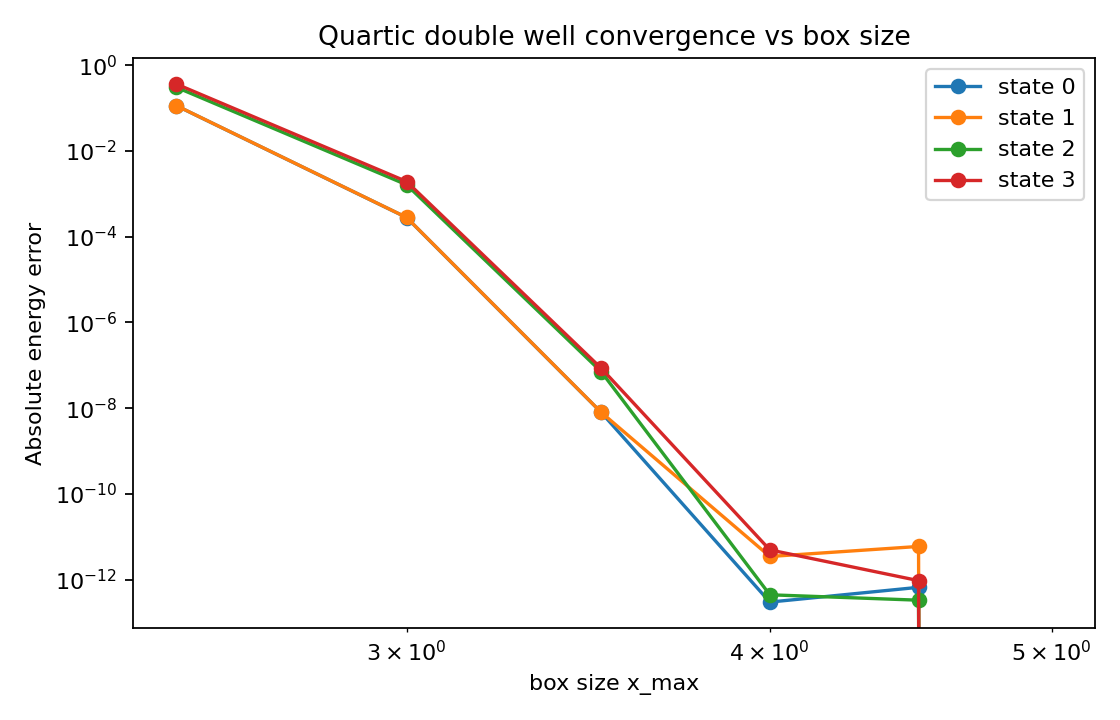
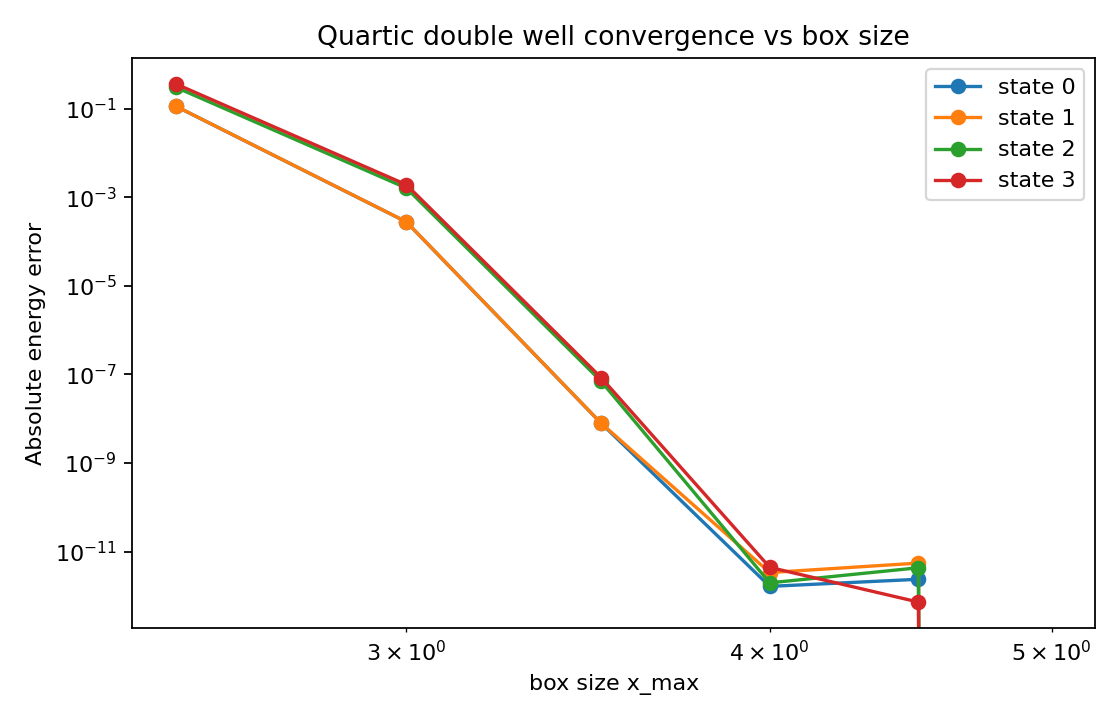
Debugged quartic double-well 3

diff --git a/src/shooting.py b/src/shooting.py
@@ -79,17 +79,21 @@ def initial_conditions(
     # This is where parity enters the shooting calculation.
     h = x_half[1] - x_half[0]
     q0 = q_half[0]
+    # For smooth symmetric potentials, q'(0)=0 but q''(0) generally does not
+    # vanish. Including it prevents the startup step from degrading the
+    # observed high-order convergence for center-penetrating states.
+    q2 = (q_half[2] - 2.0 * q_half[1] + q_half[0]) / (h * h)
 
     if parity == "even":
         # psi(0) = 1 and psi'(0) = 0.
-        # Include the h^4 term so the two-step startup does not dominate the
-        # nominal fourth-order eigenvalue convergence of the Numerov solve in
-        # constant-curvature regions such as the square-well interior.
-        return 1.0, 1.0 + 0.5 * q0 * h**2 + (q0**2 * h**4) / 24.0
+        # Include the full h^4 term. For y'' = q(x) y, the even Taylor series
+        # is y(h) = 1 + q0 h^2 / 2 + (q0^2 + q''(0)) h^4 / 24 + O(h^6).
+        return 1.0, 1.0 + 0.5 * q0 * h**2 + ((q0**2 + q2) * h**4) / 24.0
     if parity == "odd":
         # psi(0) = 0 and psi'(0) = 1.
-        # Include the h^5 term for the same reason as the even startup above.
-        return 0.0, h + (q0 * h**3) / 6.0 + (q0**2 * h**5) / 120.0
+        # Include the full h^5 term. For odd states the series is
+        # y(h) = h + q0 h^3 / 6 + (q0^2 + 3 q''(0)) h^5 / 120 + O(h^7).
+        return 0.0, h + (q0 * h**3) / 6.0 + ((q0**2 + 3.0 * q2) * h**5) / 120.0
 
     raise ValueError("parity must be 'even' or 'odd'")
 

diff --git a/src/experiments.py b/src/experiments.py
@@ -924,8 +924,8 @@ def run_double_well(results_dir: Path) -> None:
         e1,
         splitting,
         "double-well parameter b",
-        results_dir / "3_double_well_splitting.png",
-        "Quartic double well splitting",
+        results_dir / "3_double_well_splitting_vs_b.png",
+        "Quartic double well splitting vs b",
     )
 
 

diff --git a/src/plotting.py b/src/plotting.py
@@ -198,7 +198,6 @@ def plot_energy_comparison(
     plt.close()
 
 
-# ---------------------------------------------------------------------------
 # FUNCTION: plot_error_curve
 # Reviewer note: this named block is one logical unit of the implementation.
 # ---------------------------------------------------------------------------

diff --git a/tests/test_solver.py b/tests/test_solver.py
@@ -337,6 +337,7 @@ def test_double_well_successive_convergence_order() -> None:
     slopes = estimate_convergence_slopes(conv["h"], conv["energy_errors"])
     assert slopes[0]["convergence_exponent_p"] > 3.5
     assert slopes[1]["convergence_exponent_p"] > 3.5
+    assert slopes[2]["convergence_exponent_p"] > 3.5
 
 
 # ---------------------------------------------------------------------------